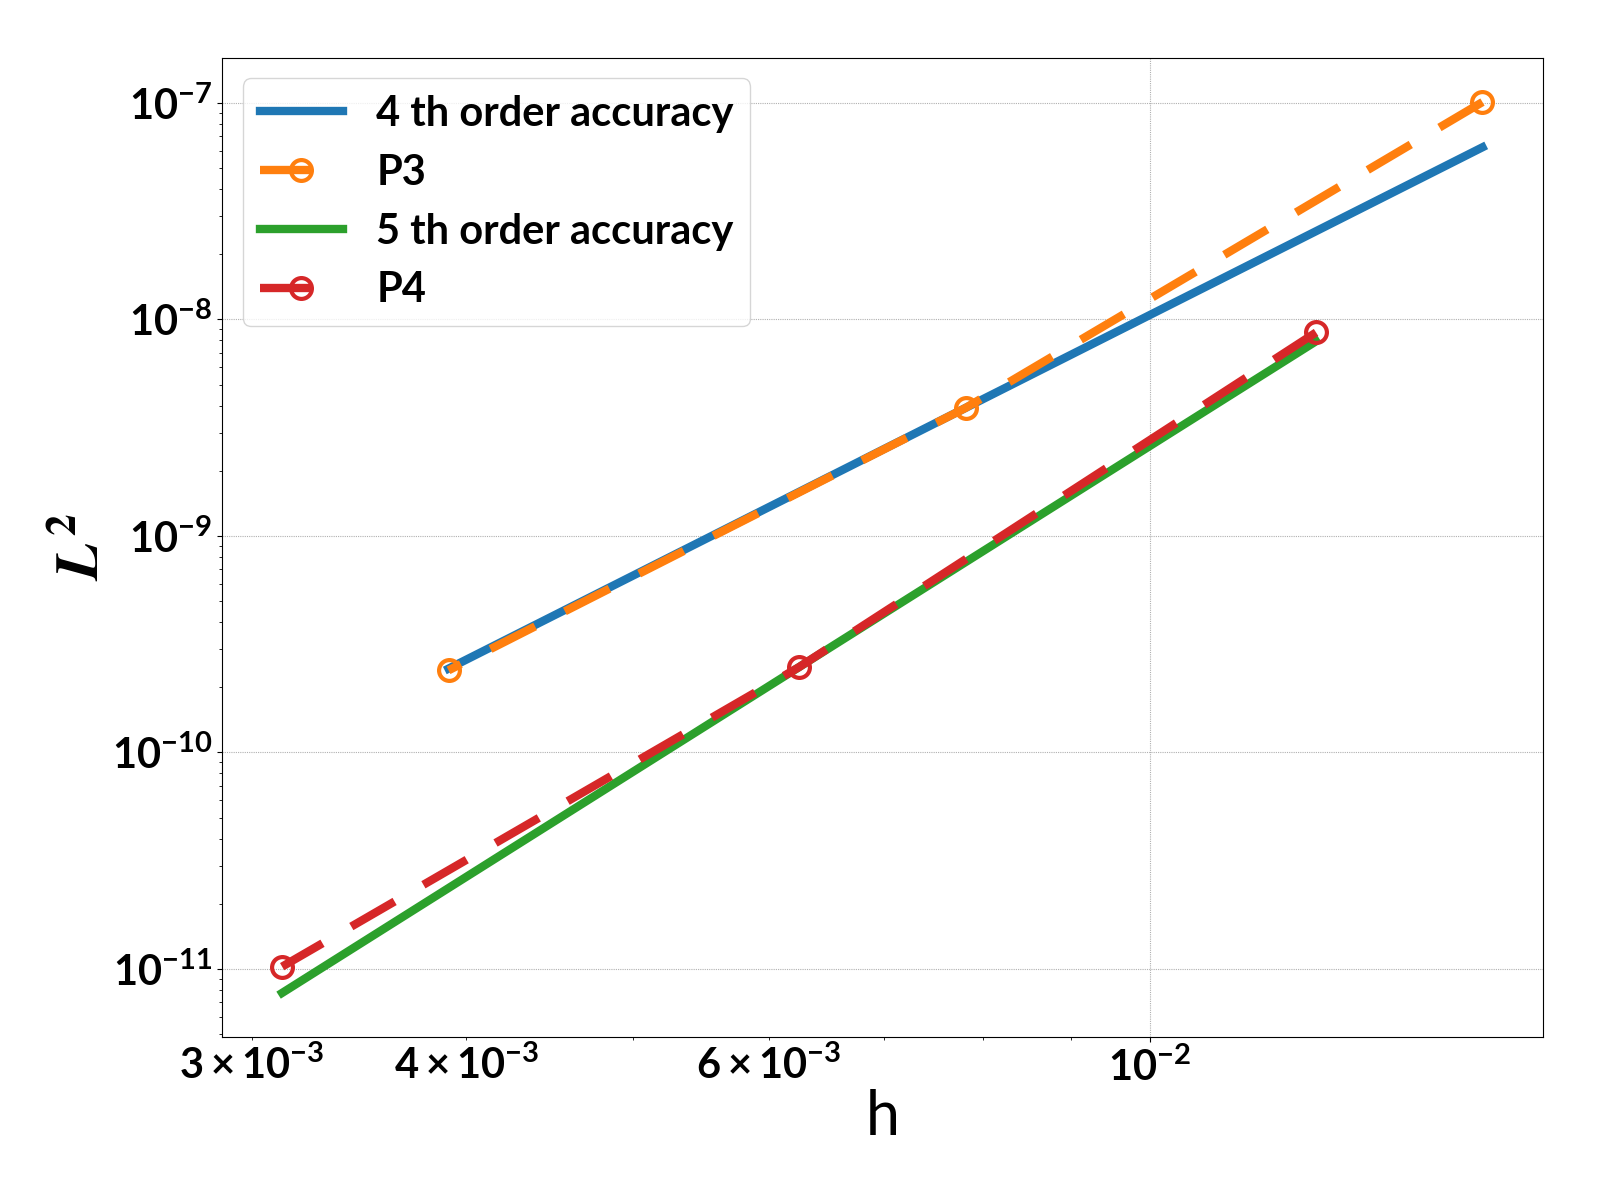
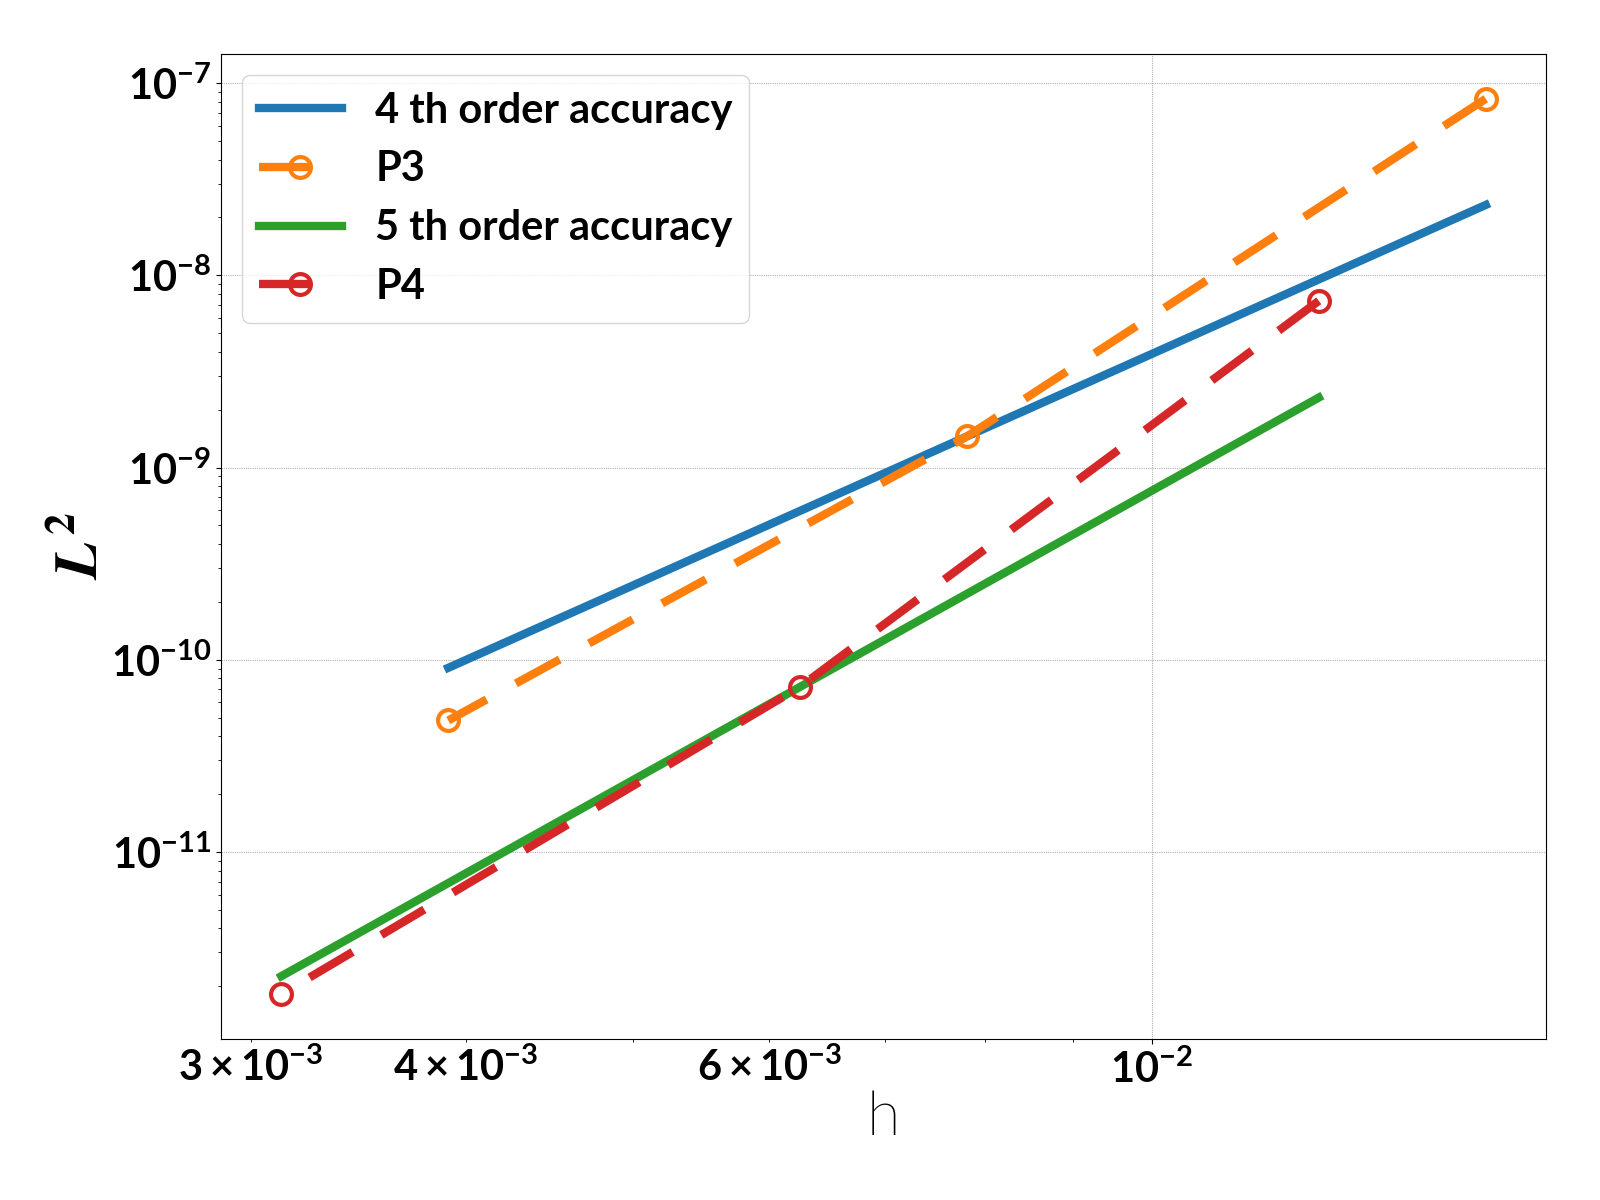
update

diff --git a/docs/demo_cases/hiocfd5_vortex/index.html b/docs/demo_cases/hiocfd5_vortex/index.html
@@ -185,13 +185,13 @@ code.has-jax {
 
 <h1 id="results">Results</h1>
 
-<p>NFS employs SSP-RK3 as the time marching scheme. Although the original case document targets 50 periods of time to test the accuracy, here we target $1.5 \times 10^{-4}s$ for the comparison. In fact, a long time run shows that the accuracy is kept really well after 50 periods of time. The $L_2$ error is in terms of the streamwise velocity.</p>
+<p>NFS employs SSP-RK3 as the time marching scheme. It runs 25 periods of time to test the accuracy. The $L_2$ error is in terms of the streamwise velocity.</p>
 
 <p>Using 3 grids under P3 and P4, NFS shows the following orders of accuracy.</p>
 
-<p><img src="demo_cases/HiOCFD5_Vortex/error_h.png" alt="Error VS. Grid size" /></p>
+<p><img src="HiOCFD5_Vortex/error_h.png" alt="Error VS. Grid size" /></p>
 
-            <p class="post-meta border-bottom pb-3 mb-0">Updated on May 30, 2019</p><nav class="pagination mt-3"><a class="nav nav-prev" href="/nfsdoc/demo_cases/" title="Demo Cases"><i class="ti-arrow-left mr-2"></i>Demo Cases</a>
+            <p class="post-meta border-bottom pb-3 mb-0">Updated on January 1, 0001</p><nav class="pagination mt-3"><a class="nav nav-prev" href="/nfsdoc/demo_cases/" title="Demo Cases"><i class="ti-arrow-left mr-2"></i>Demo Cases</a>
             <a class="nav nav-next" href="/nfsdoc/inputs/" title="Inputs">Inputs<i class="ti-arrow-right ml-2"></i></a>
             </nav></div>
       </div>

diff --git a/docs/index.html b/docs/index.html
@@ -166,12 +166,6 @@ code.has-jax {
                 },
                 
                 {
-                    value: "HiOCFD5 Vortex Transport",
-                    label: "HiOCFD5 Vortex Transport",
-                    url:"https:\/\/desperadoshi.github.io\/nfsdoc\/demo_cases\/hiocfd5_vortex\/"
-                },
-                
-                {
                     value: "Initialization",
                     label: "Initialization",
                     url:"https:\/\/desperadoshi.github.io\/nfsdoc\/inputs\/initialization\/"
@@ -193,6 +187,12 @@ code.has-jax {
                     value: "Time Scheme",
                     label: "Time Scheme",
                     url:"https:\/\/desperadoshi.github.io\/nfsdoc\/inputs\/time_scheme\/"
+                },
+                
+                {
+                    value: "HiOCFD5 Vortex Transport",
+                    label: "HiOCFD5 Vortex Transport",
+                    url:"https:\/\/desperadoshi.github.io\/nfsdoc\/demo_cases\/hiocfd5_vortex\/"
                 },
                 
             ];

diff --git a/content/demo_cases/HiOCFD5_Vortex.md b/content/demo_cases/HiOCFD5_Vortex.md
@@ -1,8 +1,7 @@
 ---
-title: "HiOCFD5 Vortex Transport"
-type: "post"
-weight: 2
-lastmod: "2019-05-30"
+title: HiOCFD5 Vortex Transport
+author: Jingchang Shi
+date: 2019-05-30, 10:22:33
 ---
 
 # Case Description
@@ -13,9 +12,9 @@ This basic case is aimed at testing a high-order method’s capability to preser
 
 # Results
 
-NFS employs SSP-RK3 as the time marching scheme. Although the original case document targets 50 periods of time to test the accuracy, here we target $1.5 \times 10^{-4}s$ for the comparison. In fact, a long time run shows that the accuracy is kept really well after 50 periods of time. The $L_2$ error is in terms of the streamwise velocity.
+NFS employs SSP-RK3 as the time marching scheme. It runs 25 periods of time to test the accuracy. The $L_2$ error is in terms of the streamwise velocity.
 
 Using 3 grids under P3 and P4, NFS shows the following orders of accuracy.
 
-![Error VS. Grid size](demo_cases/HiOCFD5_Vortex/error_h.png)
+![Error VS. Grid size](HiOCFD5_Vortex/error_h.png)
 
